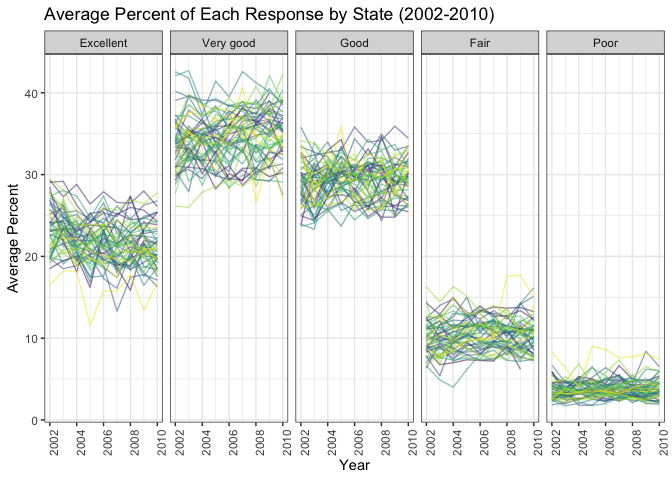
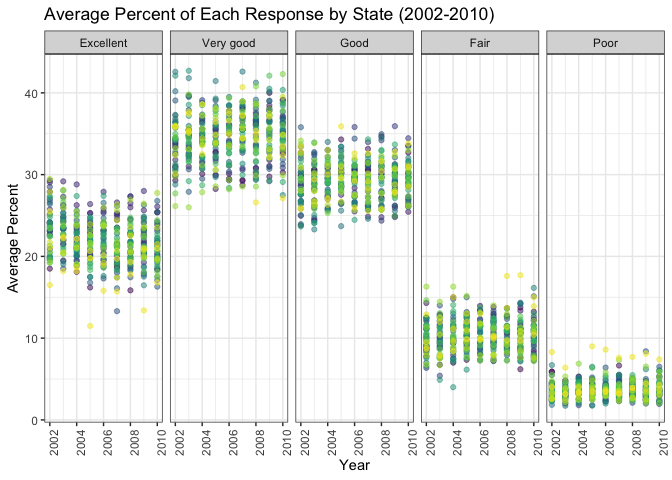
updating plots already made, working through more of probelm 2 (exploratory plots)

Changed region(s): [[0.0625, 0.125, 0.625, 0.6875], [0.625, 0.5938, 1.0, 0.875], [0.75, 0.5625, 0.7812, 0.5938]]

diff --git a/p8105_hw3_ms5533.md b/p8105_hw3_ms5533.md
@@ -123,7 +123,7 @@ brfss_data %>%
     mean = mean(data_value, na.rm = TRUE)
   ) %>% 
   ggplot(aes(x = year, y = mean, color = locationabbr)) +
-  geom_line(alpha = .5) +
+  geom_point(alpha = .5) +
   facet_grid(~ response) + 
   labs(
     title = "Average Percent of Each Response by State (2002-2010)", 
@@ -139,31 +139,71 @@ brfss_data %>%
 
 ## Problem 2
 
+*_Write a short description of the dataset, noting the size and
+structure of the data, describing some key variables, and giving
+illstrative examples of observations._*
+
 Data exploration
 
 ``` r
 # import dataset
 instacart_data = instacart 
 
+# percent reordered
 instacart_data %>% 
   summarise(
-    sum(reordered)/nrow(instacart_data)*100
-  )
+    sum(reordered)/nrow(instacart_data)*100)
 ## # A tibble: 1 x 1
 ##   `sum(reordered)/nrow(instacart_data) * 100`
 ##                                         <dbl>
 ## 1                                        59.9
+
+# average order number
 instacart_data %>% 
   summarise(mean(order_number))
 ## # A tibble: 1 x 1
 ##   `mean(order_number)`
 ##                  <dbl>
 ## 1                 17.1
+
+# histogram: hour of day 
+hour_of_day_plot = 
+  instacart_data %>% 
+  ggplot(aes(x = order_hour_of_day)) +
+  geom_histogram()
+
+# histogram: days since prior order
+days_since_prior_order_plot = 
+  instacart_data %>% 
+  ggplot(aes(x = days_since_prior_order)) +
+  geom_histogram()
+
+# histogram: day of week
+dow_plot = 
+  instacart_data %>% 
+  mutate(
+    order_dow = 
+      ordered(order_dow, 
+              levels = c(0:6), 
+              labels = c("Sunday", "Monday", "Tuesday", 
+                         "Wednesday", "Thursday", "Friday", 
+                         "Saturday"))) %>% 
+  ggplot(aes(x = order_dow)) +
+  geom_bar()
+
+# histogram: department
+department_plot = 
+  instacart_data %>% 
+  ggplot(aes(x = department)) +
+  geom_bar() +
+  theme(axis.text.x = element_text(angle = 90))
+
+(hour_of_day_plot + days_since_prior_order_plot) / (dow_plot + department_plot)
+## `stat_bin()` using `bins = 30`. Pick better value with `binwidth`.
+## `stat_bin()` using `bins = 30`. Pick better value with `binwidth`.
 ```
 
-*_Write a short description of the dataset, noting the size and
-structure of the data, describing some key variables, and giving
-illstrative examples of observations._*
+![](p8105_hw3_ms5533_files/figure-gfm/unnamed-chunk-6-1.png)<!-- -->
 
 In the present Instacart dataset, there are **1384617** observations of
 specific items ordered with information across **15** variables.
@@ -172,24 +212,18 @@ was, on average, the **17th** order for individuals. Key variables
 include the day of the week orders were made (`order_dow`), the hour of
 the day the order was made (`order_hour_of_day`), product name
 (`product_name`), aisle of the product (`aisle`), and department the
-product is in (`department`).
+product is in (`department`). Histograms (shown above) show that: Sunday
+is the most popular day, midday is the most time of day, most people
+wait a full month before ordering, and perishables are the most popular
+types of items purchased.
 
 ``` r
-# trying to make plots...not working
-
-hour_of_day_plot = 
-  instacart_data %>% 
-  ggplot(aes(x = order_hour_of_day)) +
-  geom_histogram()
-
-days_since_prior_plot
-
-dow_plot
-
-department_plot
-
-# (tmax_tmin_p + prcp_dens_p) / tmax_date_p
+instacart_data %>% 
+  ggplot(aes(x = order_hour_of_day, y = order_dow)) +
+  geom_point()
 ```
+
+![](p8105_hw3_ms5533_files/figure-gfm/unnamed-chunk-7-1.png)<!-- -->
 
 ### Questions
 
@@ -247,8 +281,7 @@ instacart_data %>%
   summarise(number = n()) %>% 
   arrange(desc(number)) %>% 
   ggplot(aes(x = aisle, y = number)) +
-  geom_bar(stat = "identity") +
-  facet_grid(~ department)
+  geom_bar(stat = "identity")
 ```
 
 3.  *_Make a table showing the most popular item aisles “baking
@@ -262,7 +295,12 @@ instacart_data %>%
 instacart_data %>% 
   filter(aisle == "baking ingrediants" | aisle == "dog food care" | 
            aisle == " packeged vegetables fruits") %>% 
-  group_by(aisle)
+  group_by(aisle, product_name) %>% 
+  summarise(
+    n = n()) %>% 
+  spread(key = aisle, value = n) %>% 
+  arrange(desc(n)) %>% 
+  top_n(5)
 ```
 
 4.  *_Make a table showing the mean hour of the day at which Pink Lady
